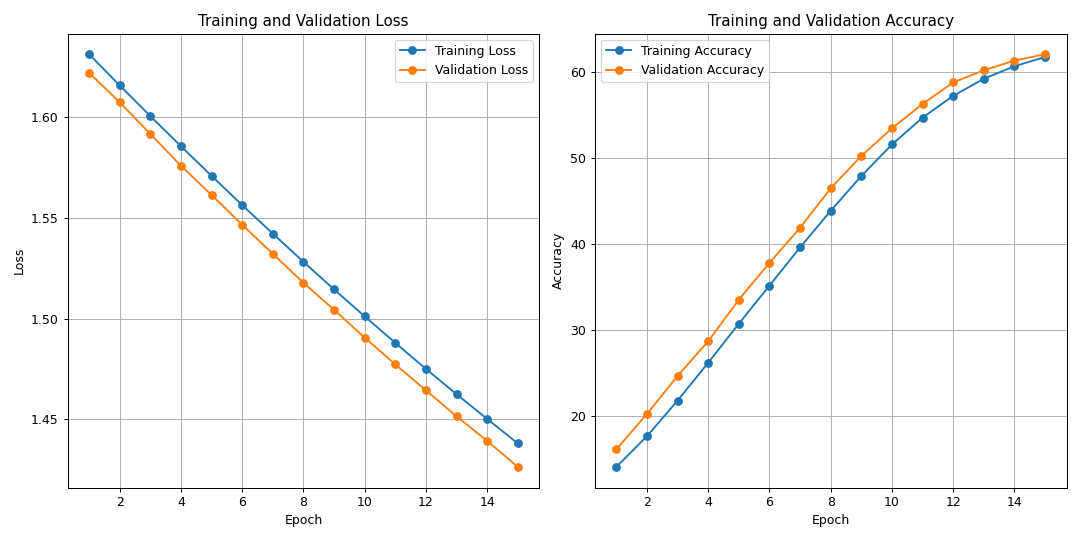
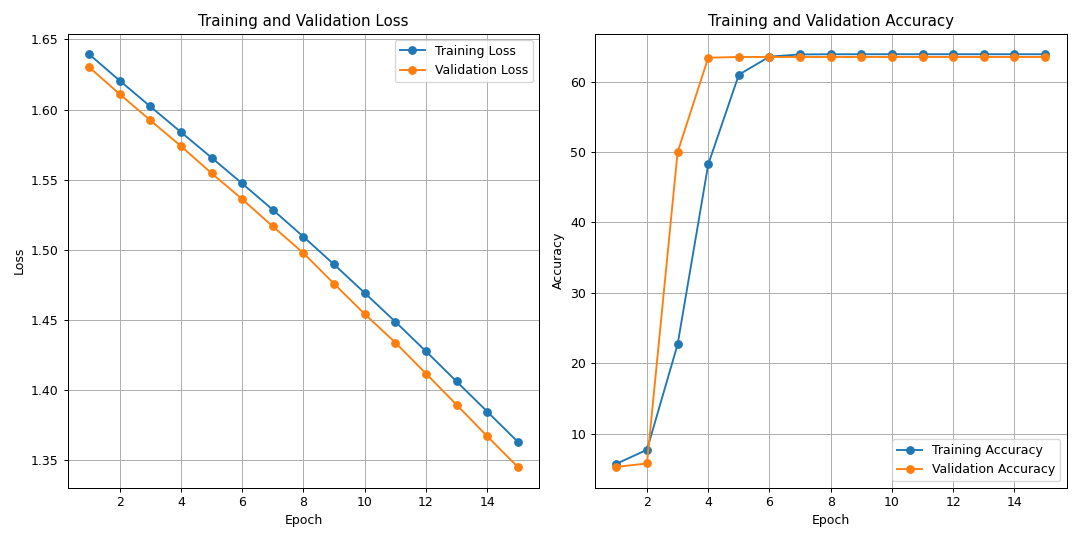
fine tune BERT

diff --git a/bert.py b/bert.py
@@ -37,14 +37,20 @@ for param in bert_model.parameters():
 
 # Define the sentiment analysis model
 class SentimentClassifier(nn.Module):
-    def __init__(self, pretrained_model, num_classes, hidden_dim=256, dropout_prob=0.2):
+    
+    def __init__(self, pretrained_model, num_classes, hidden_dim=256, dropout_prob=0.2, unfreeze_layers=0):
         super(SentimentClassifier, self).__init__()
         self.bert = pretrained_model
+
+        # Unfreeze BERT layers
+        for param in self.bert.encoder.layer[-unfreeze_layers:].parameters():
+            param.requires_grad = True
+
         self.fc1 = nn.Linear(self.bert.config.hidden_size, hidden_dim)
         self.fc2 = nn.Linear(hidden_dim, hidden_dim)
         self.fc3 = nn.Linear(hidden_dim, num_classes)
         self.dropout = nn.Dropout(dropout_prob)
-        
+
     def forward(self, input_ids, attention_mask):
         outputs = self.bert(input_ids, attention_mask=attention_mask)
         last_hidden_state = outputs.last_hidden_state
@@ -104,12 +110,12 @@ train_loader = DataLoader(train_data, batch_size=BATCH_SIZE, shuffle=True)
 val_data = TensorDataset(X_val_ids.to(device), X_val_masks.to(device), torch.tensor(y_val, dtype=torch.long).to(device))
 val_loader = DataLoader(val_data, batch_size=BATCH_SIZE)
 
-# Initialize the model
+# Initialize the model with 4 layers unfrozen
 num_classes = len(np.unique(labels))
-print(num_classes)
-model = SentimentClassifier(bert_model, num_classes).to(device)
+print(f"{num_classes} different classes.")
+model = SentimentClassifier(bert_model, num_classes=num_classes, unfreeze_layers=4).to(device)
 optimizer = optim.AdamW(model.parameters(), lr=LEARNING_RATE)
-criterion = nn.CrossEntropyLoss().to(device)  # TODO: Change to MSE
+criterion = nn.CrossEntropyLoss().to(device)
 
 # Initialize lists to store training and validation losses and accuracies
 train_losses = []
